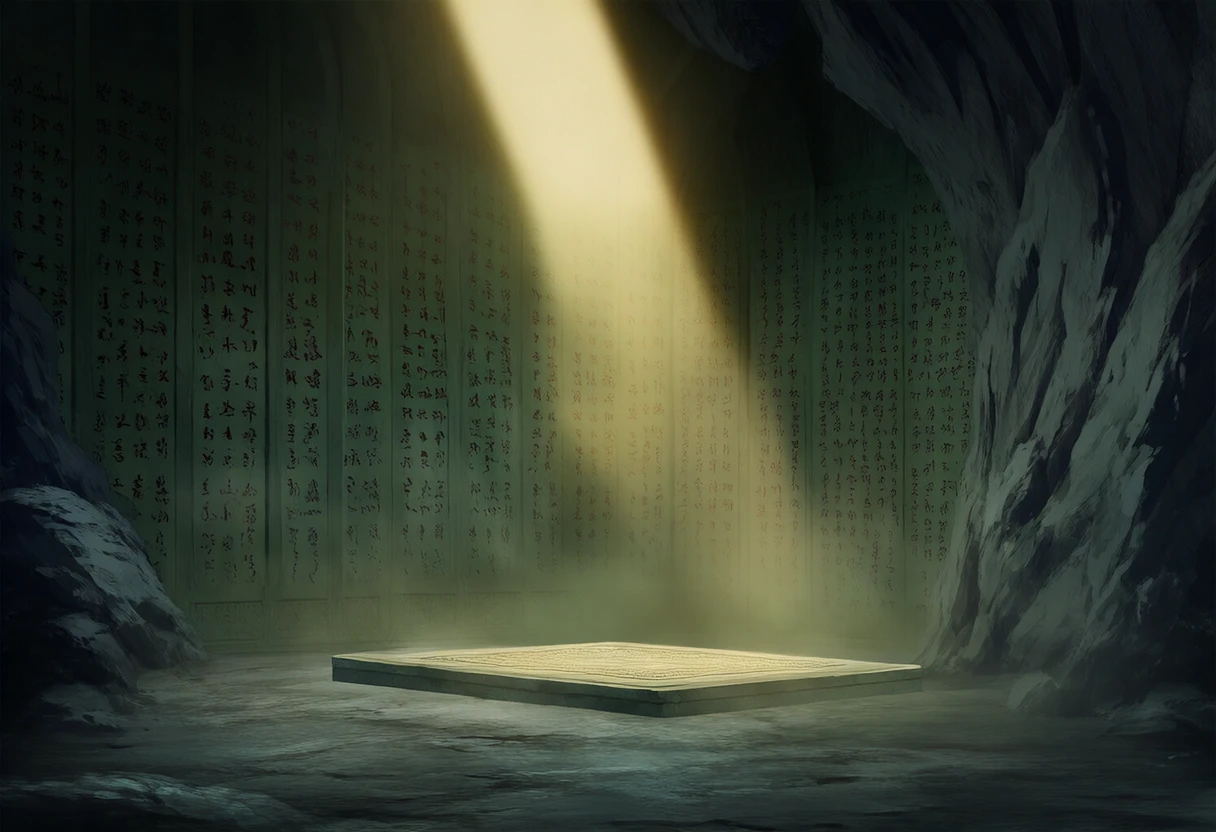
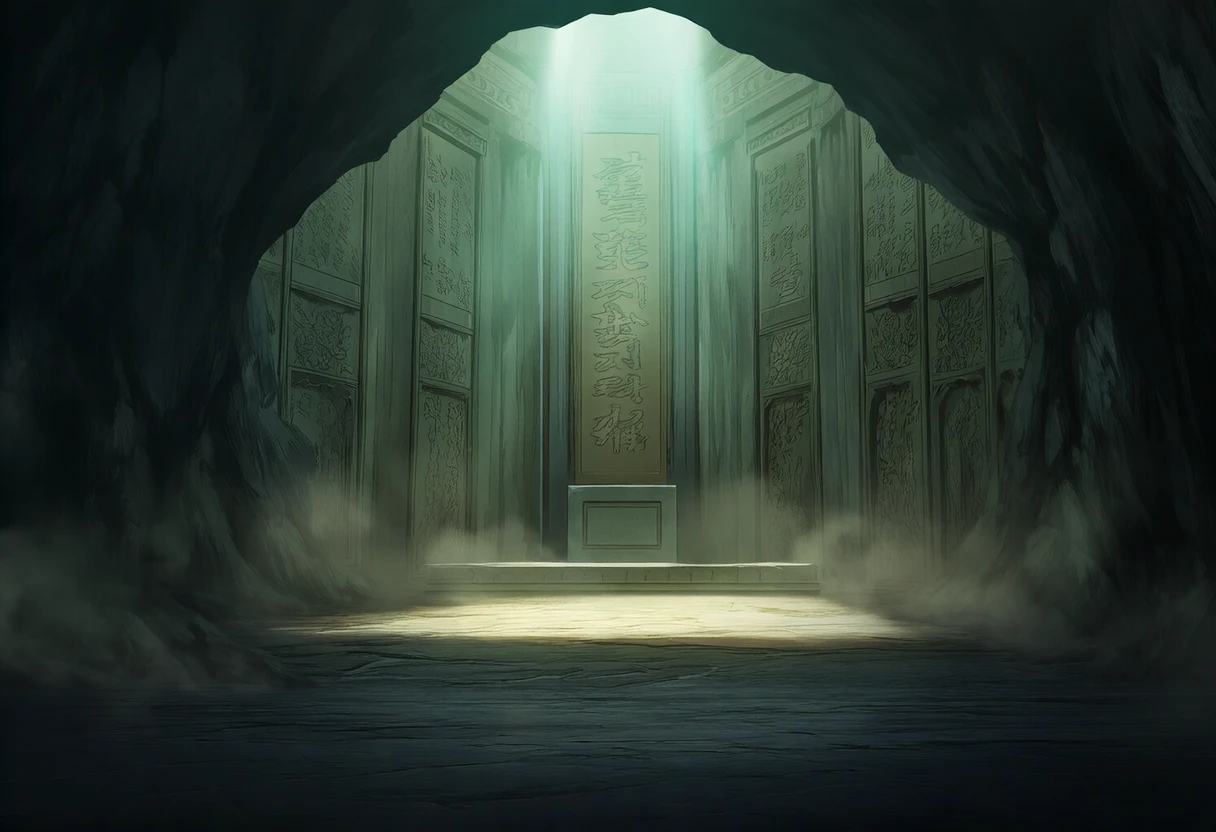
배경 36곳 추가, 배경 셋과 초상 여덟 교체
Claude-Session: https://claude.ai/code/session_01CwTFys7sMXXhord36DatFd

diff --git a/art/조연.py b/art/조연.py
@@ -380,9 +380,12 @@ PICK = {
     "각명대사": 9018,
     "강호승냥이": 9014,
     "개방십걸": 9014,
+    "개방총타": 9015,
     "객잔주인": 9014,
+    "검문소": 9020,
     "겁화대마졸": 9014,
     "겁화대주": 9015,
+    "겁화전": 9016,
     "고담": 9014,
     "곡진": 9017,
     "곤륜설산": 9015,
@@ -398,15 +401,18 @@ PICK = {
     "구호": 9015,
     "권마의그림자": 9014,
     "귀도객": 9015,
+    "귀문교": 9014,
     "귀문술사": 9015,
     "귀호": 9014,
     "금섬": 9015,
     "금안조": 9014,
     "금의위밀정": 9014,
     "기녀": 9014,
+    "나루": 9015,
     "나한승": 9014,
     "낙양_불": 9014,
     "낙일봉무인": 9014,
+    "남궁폐허": 9017,
     "남만밀림": 9014,
     "남만술사": 9014,
     "낭인": 9014,
@@ -415,6 +421,7 @@ PICK = {
     "늑대무리": 9015,
     "다리밑": 9015,
     "단조": 9014,
+    "당가": 9014,
     "당가배신자": 9014,
     "당천기": 9014,
     "대나무숲": 9015,
@@ -435,29 +442,36 @@ PICK = {
     "맹주호법": 9015,
     "맹집법사": 9015,
     "모극": 9014,
+    "모용세가": 9015,
     "묘아": 9016,
     "묘지기": 9014,
     "무각": 9014,
-    "무당산": 9015,
+    "무당산": 9016,
     "무당진인": 9014,
     "무덤": 9014,
     "무림맹추격대": 9014,
     "무명노인": 9014,
+    "무승원": 9017,
     "무애": 9014,
     "배신표사": 9015,
     "법목": 9014,
     "법천": 9014,
+    "봉마진": 9015,
     "북해고수": 9015,
     "북해빙궁": 9014,
     "붉은옷여인": 9015,
+    "비동": 9016,
     "비무결승": 9014,
     "비무철권": 9014,
+    "사도련본단": 9015,
     "사도련향주": 9014,
     "사량": 9015,
     "사이비도사": 9014,
     "사파복수귀": 9014,
     "산적": 9014,
     "산정_일출": 9014,
+    "산채_밤": 9017,
+    "살막": 9014,
     "살막살수": 9014,
     "상한": 9014,
     "생사문지기": 9014,
@@ -477,6 +491,7 @@ PICK = {
     "소칠": 9018,
     "수로채졸": 9015,
     "수적두목": 9015,
+    "수채": 9018,
     "신교분타": 9014,
     "신교사자": 9018,
     "십대고수": 9014,
@@ -489,7 +504,7 @@ PICK = {
     "아미사태": 9018,
     "엄충": 9015,
     "연단마군": 9014,
-    "연무장": 9015,
+    "연무장": 9016,
     "연무휘": 9014,
     "염교": 9014,
     "오현철": 9014,
@@ -547,6 +562,7 @@ PICK = {
     "잠화표사": 9014,
     "장강": 9015,
     "장강수적": 9014,
+    "장경각": 9015,
     "장원": 9016,
     "장원집사": 9014,
     "장칠": 9018,
@@ -557,16 +573,21 @@ PICK = {
     "전대천마잔영": 9015,
     "젊은협객": 9014,
     "점소이": 9014,
+    "점창산": 9014,
     "점창장로": 9014,
     "점창제자": 9014,
     "정마대전": 9015,
     "정연사태": 9014,
+    "정자": 9014,
     "정파명숙": 9014,
+    "제갈세가": 9015,
     "제갈장로": 9014,
     "조각무인": 9014,
     "종남검수": 9014,
+    "주루": 9014,
     "진숭": 9014,
     "진후": 9015,
+    "천기각": 9018,
     "천년백사": 9017,
     "천년혈망": 9016,
     "천마봉": 9014,
@@ -577,13 +598,16 @@ PICK = {
     "철목": 9015,
     "철봉승": 9014,
     "철혈대원": 9017,
+    "청성산": 9016,
     "청성장로": 9014,
     "청송자": 9014,
     "청허진인": 9014,
     "초량": 9014,
+    "초원": 9015,
     "촌장": 9014,
     "태산_비무대": 9015,
     "파랑": 9015,
+    "폐광": 9014,
     "포도대장": 9014,
     "표국": 9015,
     "피연못": 9018,
@@ -591,6 +615,7 @@ PICK = {
     "하오문주": 9014,
     "하진": 9014,
     "하후청": 9015,
+    "해적선": 9017,
     "해치": 9014,
     "혁련수": 9014,
     "혁련철": 9015,
@@ -604,11 +629,14 @@ PICK = {
     "혈교혈위대": 9014,
     "혈마귀졸": 9014,
     "혈마대귀": 9014,
+    "형장": 9017,
     "호교대": 9016,
+    "혼례장": 9014,
     "홍매": 9014,
     "화경마인": 9015,
     "화산": 9015,
     "화산장로": 9015,
+    "황하나루": 9015,
     "흑룡": 9015,
     "흑사방향주": 9014,
     "흑아": 9016,

diff --git a/art/그림체.md b/art/그림체.md
@@ -30,7 +30,7 @@ NovelAI Diffusion V4.5 Full로 그린 인물 그림의 고정 설정입니다. O
 
 ## 조연과 배경
 
-`조연.py`에 적과 외전의 상대, 결전의 동료, 사건에만 나오는 이름 있는 상대, 말로 만나는 사람(사람 231), 짐승과 영물(20), 사건 배경(36)을 둡니다. 사람은 `인물.py`의 그림체와 늘 빼는 것을 그대로 가져다 쓰고, 짐승은 얼굴과 손 태그를 뺀 같은 웹툰 선화와 셀 채색(`BEAST`, 큰 달과 해, 대칭 구도는 뺌), 배경은 사람 없이 장소만 그리는 가로 그림(`SCENE`, 1216×832)입니다.
+`조연.py`에 적과 외전의 상대, 결전의 동료, 사건에만 나오는 이름 있는 상대, 말로 만나는 사람(사람 231), 짐승과 영물(20), 사건 배경(72)을 둡니다. 사람은 `인물.py`의 그림체와 늘 빼는 것을 그대로 가져다 쓰고, 짐승은 얼굴과 손 태그를 뺀 같은 웹툰 선화와 셀 채색(`BEAST`, 큰 달과 해, 대칭 구도는 뺌), 배경은 사람 없이 장소만 그리는 가로 그림(`SCENE`, 1216×832)입니다.
 
 - 사람마다 병기를 드는지(`무`), 맨손인지(`맨`), 암기나 붓처럼 작은 것을 드는지(`작`)를 적습니다. `무`에만 병기 강조 태그가 붙습니다.
 - 같은 사람이 적 데이터에 두 번 있으면(혈교 우호법과 외전의 반량 같은 경우) 한 장만 그립니다. 주요 인물로 이미 그린 사람(천마, 혈마, 십이마장 일부, 혈불 사도명, 맹주, 매화노검)은 다시 그리지 않습니다.
@@ -39,6 +39,7 @@ NovelAI Diffusion V4.5 Full로 그린 인물 그림의 고정 설정입니다. O
 - 사람 그림 뒤에 큰 붉은 달이나 원이 박히는 버릇이 있어 늘 뺍니다.
 - 무리로 나오는 적도 대표 한 사람으로 그립니다. 무리를 적으면 뒤의 사람들이 얼굴 없이 뭉개집니다.
 - 나이 든 인물은 나이와 함께 주름, 희끗한 머리, 수염을 적습니다. 나이만 적으면 젊게 나옵니다.
+- 배경에 서양식 기둥, 범선, 성, 아스팔트 길이 끼어들면 그 말을 빼는 태그에 넣습니다.
 - 배경은 그 장소를 알아볼 것(잔도의 쇠사슬, 관아의 북, 무덤의 봉분과 비석)을 적고, 일본식 건축과 떠 있는 섬은 늘 뺍니다.
 - 무료 조건은 한 번에 한 장만 받으므로 생성이 겹치면 거절(429)되고, `gen.py`는 기다렸다 다시 시도합니다.
 - 시드 9013, 9014, 9015로 세 장씩 뽑아 가장 잘 나오고 다른 그림과 잘 어울리는 것을 `PICK`에 적습니다. 셋 다 이상하면 태그를 고쳐 다시 뽑습니다.
